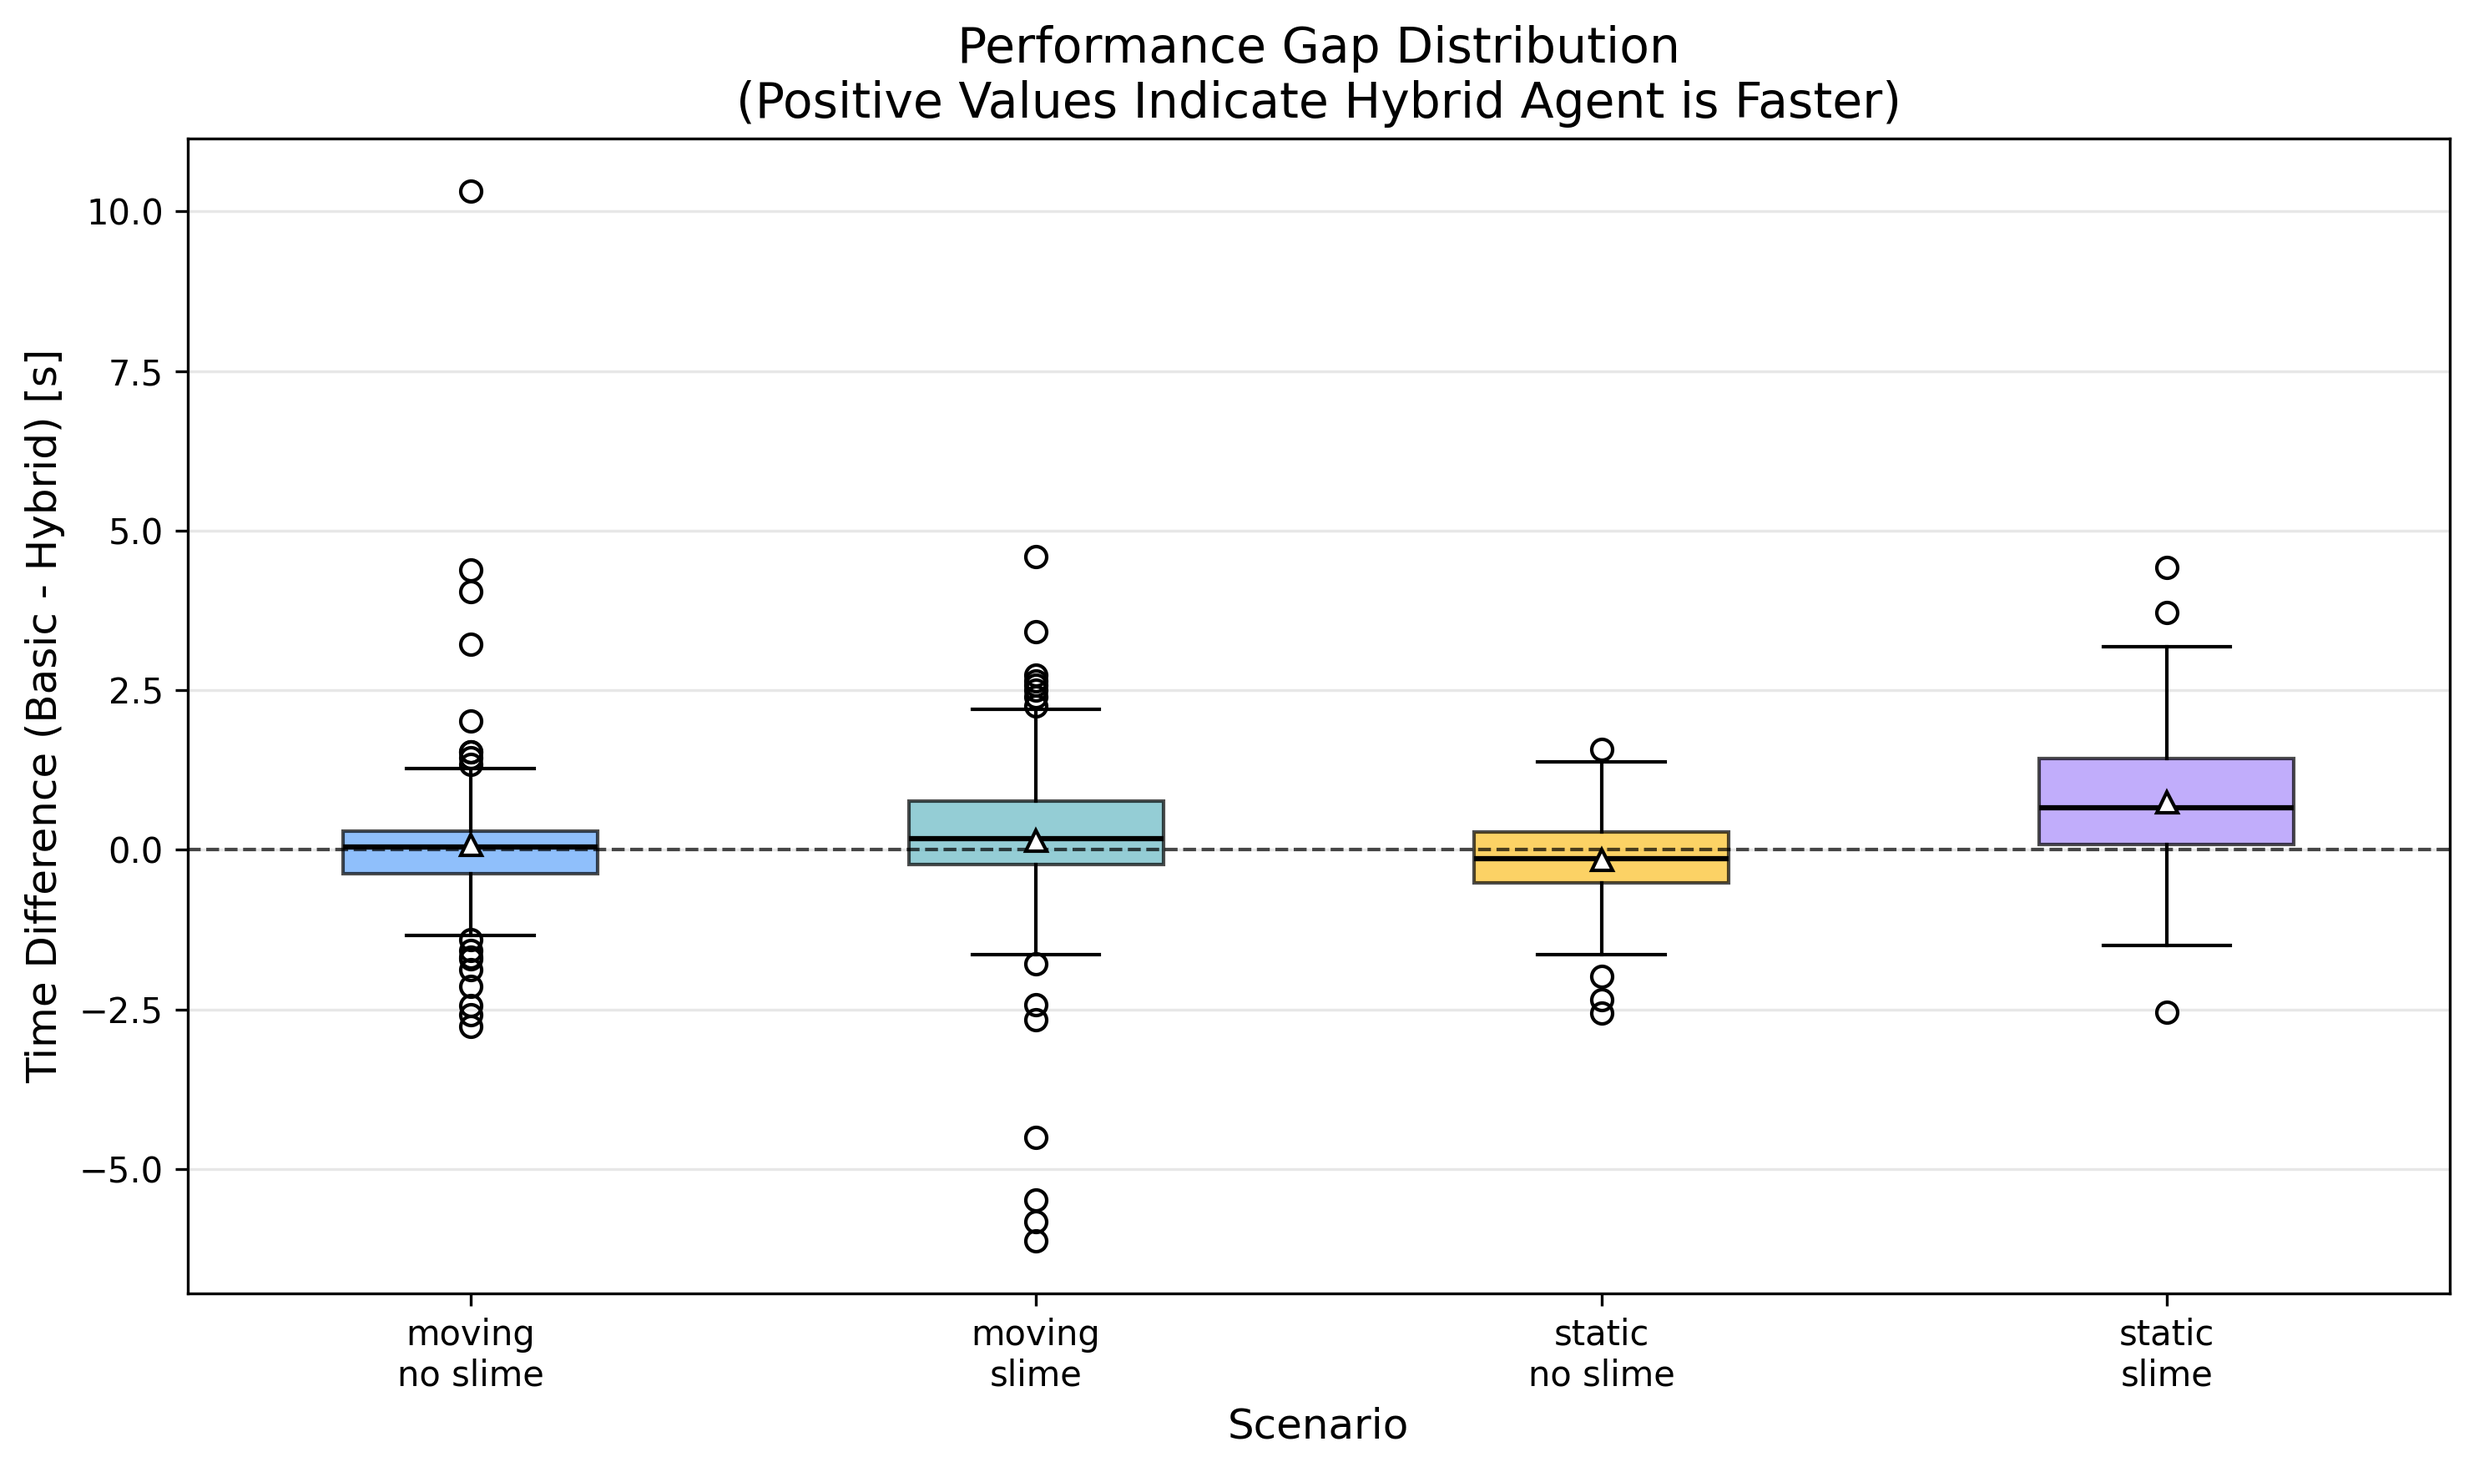
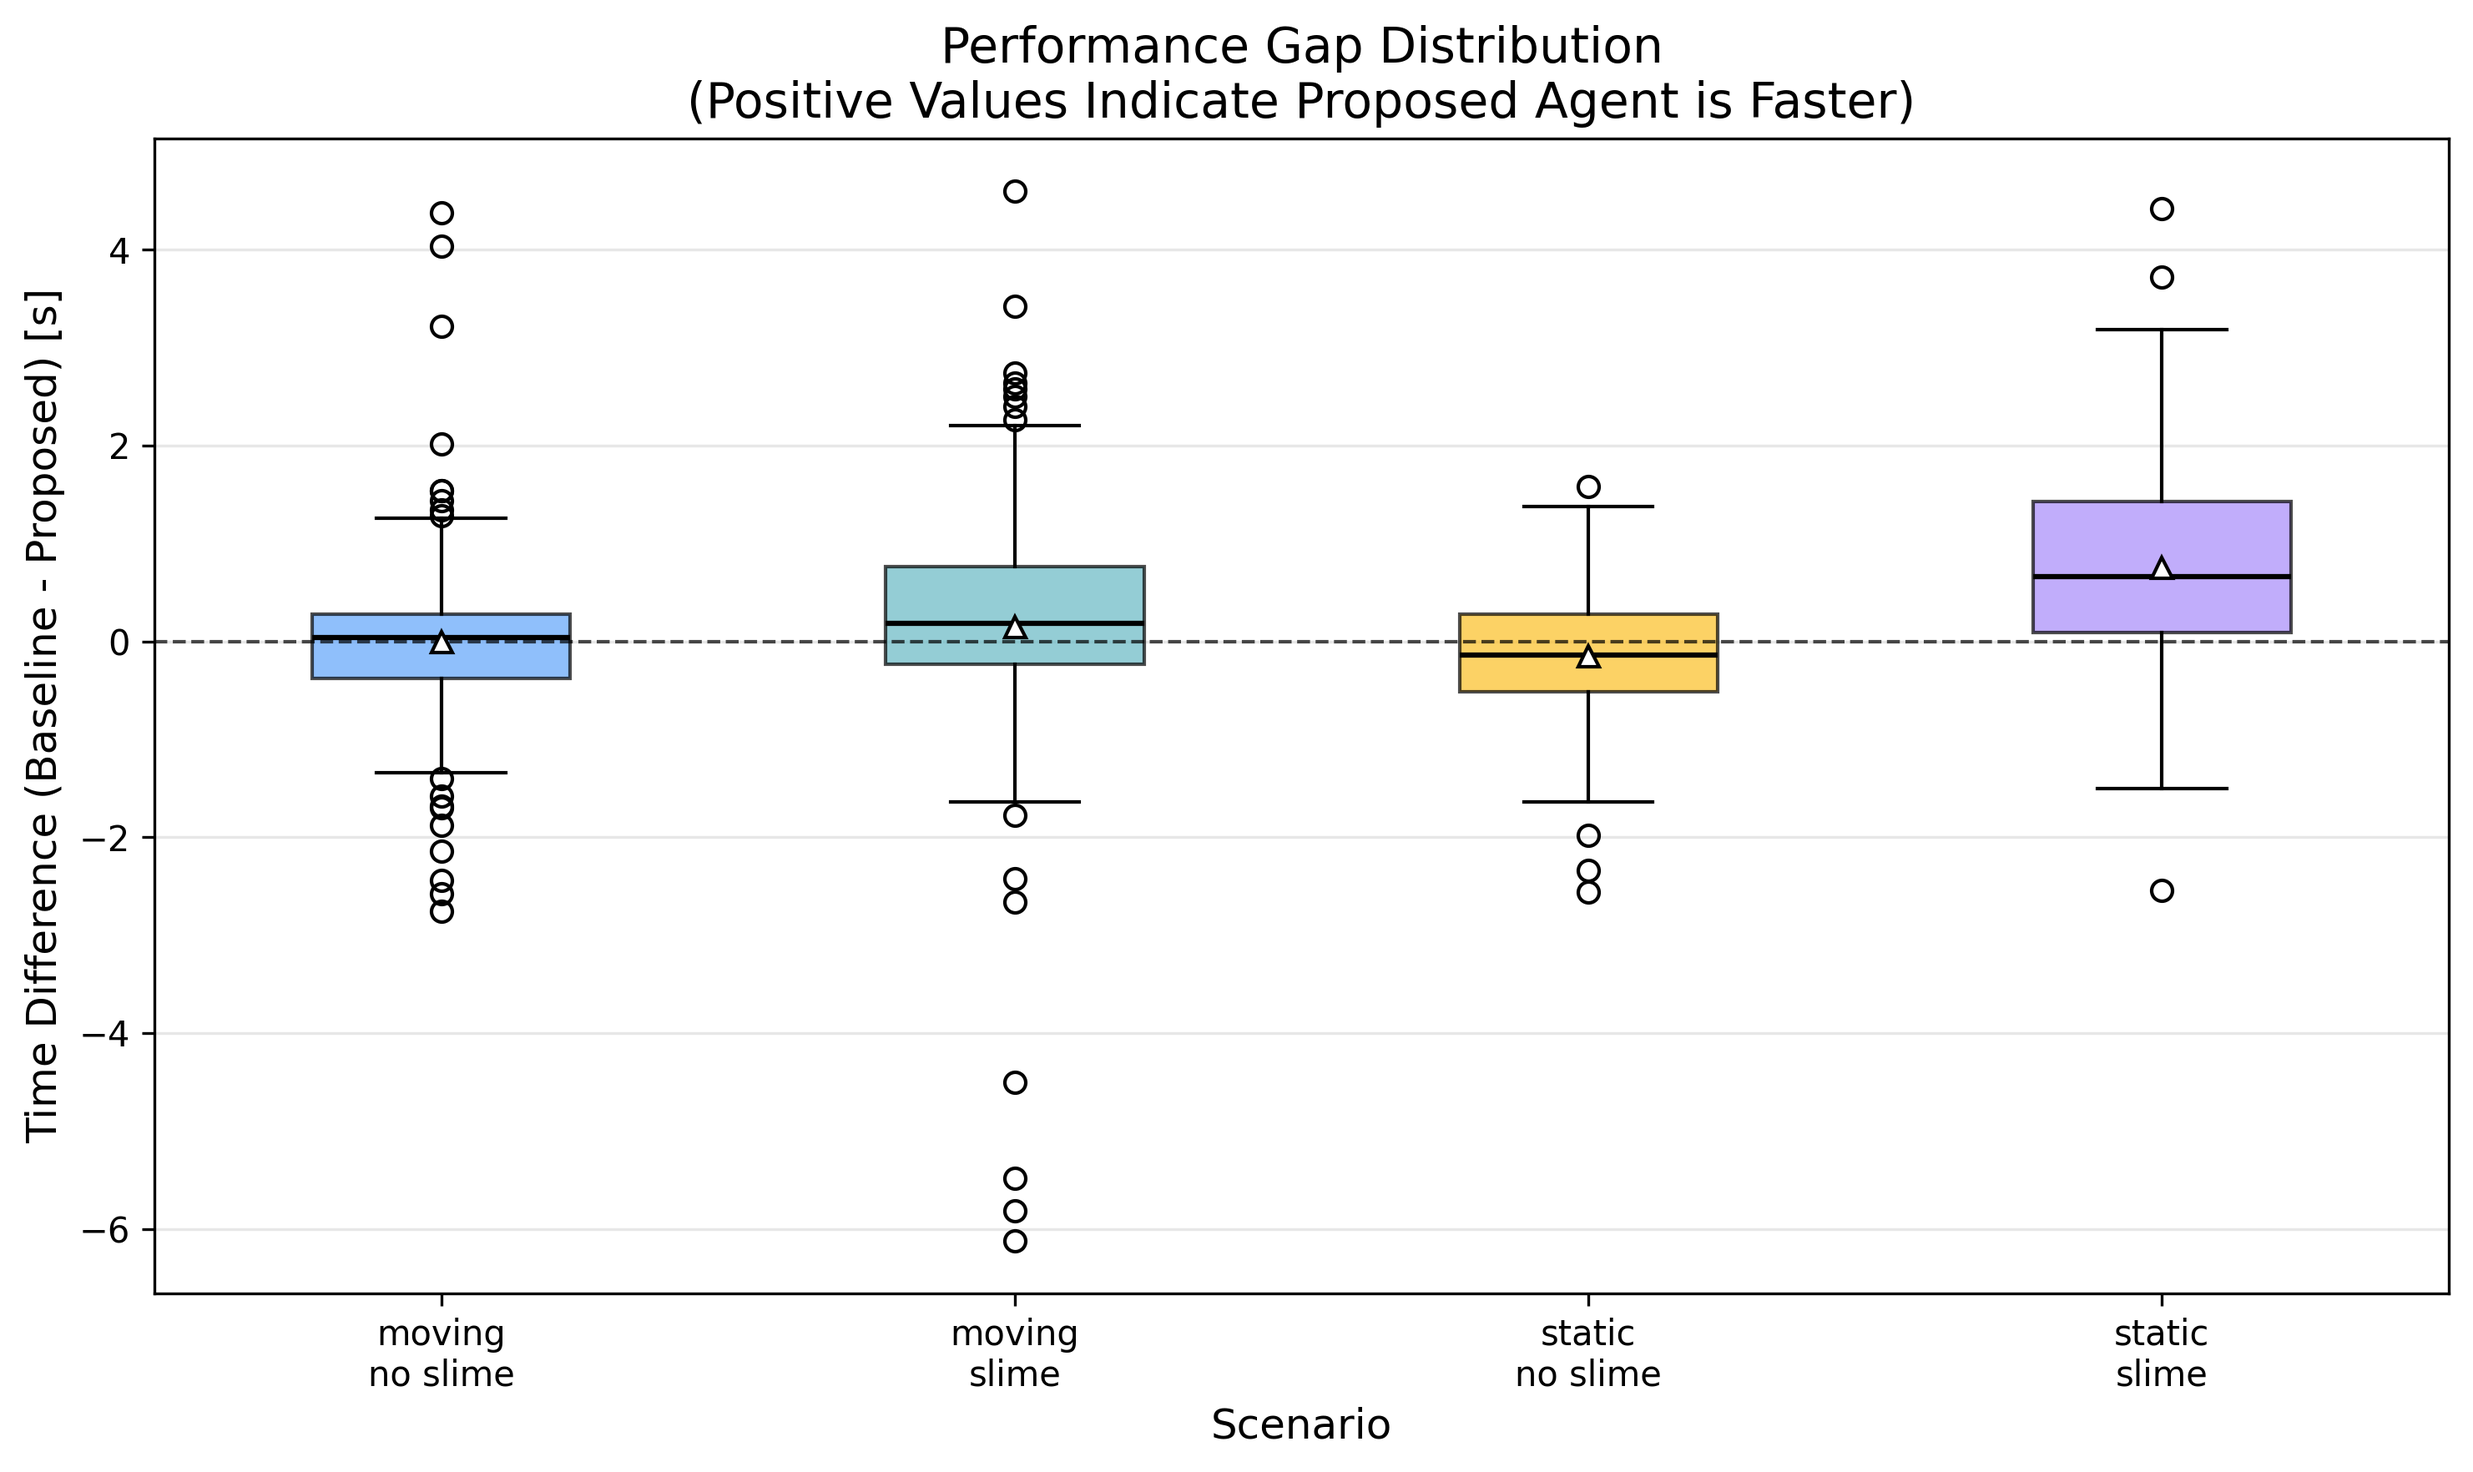
eval updates

diff --git a/eval/analysis.py b/eval/analysis.py
@@ -25,12 +25,12 @@ class ScenarioResult:
     mean_delta: float
     std_delta: float
     median_delta: float
-    hybrid_wins: int
+    proposed_wins: int
     ties: int
-    basic_wins: int
-    hybrid_win_rate: float
+    baseline_wins: int
+    proposed_win_rate: float
     tie_rate: float
-    basic_win_rate: float
+    baseline_win_rate: float
 
 
 def load_scenario_data(processed_dir: Path) -> dict[str, pd.DataFrame]:
@@ -38,16 +38,16 @@ def load_scenario_data(processed_dir: Path) -> dict[str, pd.DataFrame]:
     for csv_file in processed_dir.glob("*.csv"):
         scenario_name = csv_file.stem
         df = pd.read_csv(csv_file)
-        df['delta'] = df['basic_agent_time'] - df['hybrid_agent_time']
+        df['delta'] = df['baseline_agent_time'] - df['proposed_agent_time']
         scenarios[scenario_name] = df
     return scenarios
 
 
-def classify_winner(delta: float, epsilon: float = EPSILON) -> Literal['hybrid', 'tie', 'basic']:
+def classify_winner(delta: float, epsilon: float = EPSILON) -> Literal['proposed', 'tie', 'baseline']:
     if delta > epsilon:
-        return 'hybrid'
+        return 'proposed'
     elif delta < -epsilon:
-        return 'basic'
+        return 'baseline'
     else:
         return 'tie'
 
@@ -74,9 +74,9 @@ def analyze_scenario(name: str, df: pd.DataFrame, alpha: float = 0.05) -> Scenar
     median_delta = np.median(deltas)
     
     df['classification'] = df['delta'].apply(classify_winner)
-    hybrid_wins = (df['classification'] == 'hybrid').sum()
+    proposed_wins = (df['classification'] == 'proposed').sum()
     ties = (df['classification'] == 'tie').sum()
-    basic_wins = (df['classification'] == 'basic').sum()
+    baseline_wins = (df['classification'] == 'baseline').sum()
     
     return ScenarioResult(
         scenario=name,
@@ -91,12 +91,12 @@ def analyze_scenario(name: str, df: pd.DataFrame, alpha: float = 0.05) -> Scenar
         mean_delta=mean_delta,
         std_delta=std_delta,
         median_delta=median_delta,
-        hybrid_wins=hybrid_wins,
+        proposed_wins=proposed_wins,
         ties=ties,
-        basic_wins=basic_wins,
-        hybrid_win_rate=hybrid_wins / n * 100,
+        baseline_wins=baseline_wins,
+        proposed_win_rate=proposed_wins / n * 100,
         tie_rate=ties / n * 100,
-        basic_win_rate=basic_wins / n * 100,
+        baseline_win_rate=baseline_wins / n * 100,
     )
 
 
@@ -124,8 +124,8 @@ def create_box_plot(scenarios: dict[str, pd.DataFrame], output_path: Path):
     ax.axhline(y=0, color='black', linestyle='--', linewidth=1, alpha=0.7)
     
     ax.set_xlabel('Scenario', fontsize=12)
-    ax.set_ylabel('Time Difference (Basic - Hybrid) [s]', fontsize=12)
-    ax.set_title('Performance Gap Distribution\n(Positive Values Indicate Hybrid Agent is Faster)', fontsize=14)
+    ax.set_ylabel('Time Difference (Baseline - Proposed) [s]', fontsize=12)
+    ax.set_title('Performance Gap Distribution\n(Positive Values Indicate Proposed Agent is Faster)', fontsize=14)
     ax.grid(axis='y', alpha=0.3)
     
     plt.tight_layout()
@@ -138,17 +138,17 @@ def create_stacked_bar_chart(results: list[ScenarioResult], output_path: Path):
     fig, ax = plt.subplots(figsize=(10, 6))
     
     scenarios = [r.scenario.replace('_', '\n') for r in results]
-    hybrid_wins = [r.hybrid_win_rate for r in results]
+    proposed_wins = [r.proposed_win_rate for r in results]
     ties = [r.tie_rate for r in results]
-    basic_wins = [r.basic_win_rate for r in results]
+    baseline_wins = [r.baseline_win_rate for r in results]
     
     x = np.arange(len(scenarios))
     width = 0.6
     
-    ax.bar(x, hybrid_wins, width, label='Hybrid Win', color='#60A5FA')
-    ax.bar(x, ties, width, bottom=hybrid_wins, label='Tie', color='#FBBF24')
-    ax.bar(x, basic_wins, width, bottom=np.array(hybrid_wins) + np.array(ties), 
-           label='Basic Win', color='#67B8C4')
+    ax.bar(x, proposed_wins, width, label='Proposed', color='#60A5FA')
+    ax.bar(x, ties, width, bottom=proposed_wins, label='Tie', color='#FBBF24')
+    ax.bar(x, baseline_wins, width, bottom=np.array(proposed_wins) + np.array(ties), 
+           label='Baseline', color='#F87171')
     
     ax.set_xlabel('Scenario', fontsize=12)
     ax.set_ylabel('Percentage (%)', fontsize=12)
@@ -160,12 +160,15 @@ def create_stacked_bar_chart(results: list[ScenarioResult], output_path: Path):
     ax.grid(axis='y', alpha=0.3)
     
     for i, r in enumerate(results):
-        if r.hybrid_win_rate > 5:
-            ax.text(i, r.hybrid_win_rate / 2, f'{r.hybrid_win_rate:.1f}%', 
+        if r.proposed_win_rate > 5:
+            ax.text(i, r.proposed_win_rate / 2, f'{r.proposed_win_rate:.1f}%', 
                     ha='center', va='center', fontsize=10, fontweight='bold')
-        if r.basic_win_rate > 5:
-            ax.text(i, r.hybrid_win_rate + r.tie_rate + r.basic_win_rate / 2, 
-                    f'{r.basic_win_rate:.1f}%', 
+        if r.tie_rate > 0:
+            ax.text(i, r.proposed_win_rate + r.tie_rate / 2, f'{r.tie_rate:.1f}%', 
+                    ha='center', va='center', fontsize=9, fontweight='bold')
+        if r.baseline_win_rate > 5:
+            ax.text(i, r.proposed_win_rate + r.tie_rate + r.baseline_win_rate / 2, 
+                    f'{r.baseline_win_rate:.1f}%', 
                     ha='center', va='center', fontsize=10, fontweight='bold')
     
     plt.tight_layout()
@@ -218,7 +221,7 @@ def main():
         sig = "✓" if result.is_significant else "✗"
         print(f"    - Normality: p={result.shapiro_p:.4f} ({'Normal' if result.is_normal else 'Non-Normal'})")
         print(f"    - {result.test_used}: p={result.test_p:.4f} {sig}")
-        print(f"    - Win Rate: Hybrid {result.hybrid_win_rate:.1f}% | Tie {result.tie_rate:.1f}% | Basic {result.basic_win_rate:.1f}%")
+        print(f"    - Win Rate: Proposed {result.proposed_win_rate:.1f}% | Tie {result.tie_rate:.1f}% | Baseline {result.baseline_win_rate:.1f}%")
     print()
     
     print("Generating outputs...")

diff --git a/eval/preprocess.py b/eval/preprocess.py
@@ -9,8 +9,8 @@ class MapResult:
     map_id: int
     map_seed: int
     timestamp: str
-    basic_agent_time: float
-    hybrid_agent_time: float
+    baseline_agent_time: float
+    proposed_agent_time: float
     time_diff: float
     winner: str
 
@@ -55,8 +55,8 @@ def parse_log_file(log_path: Path) -> list[MapResult]:
                 original_map_id = int(complete_match.group(1))
                 winner = complete_match.group(2)
                 time_diff = float(complete_match.group(3))
-                hybrid_time = float(complete_match.group(4))
-                basic_time = float(complete_match.group(5))
+                proposed_time = float(complete_match.group(4))
+                baseline_time = float(complete_match.group(5))
                 
                 if original_map_id in map_starts:
                     timestamp, seed, actual_id = map_starts[original_map_id]
@@ -65,8 +65,8 @@ def parse_log_file(log_path: Path) -> list[MapResult]:
                         map_id=actual_id,
                         map_seed=seed,
                         timestamp=timestamp,
-                        basic_agent_time=basic_time,
-                        hybrid_agent_time=hybrid_time,
+                        baseline_agent_time=baseline_time,
+                        proposed_agent_time=proposed_time,
                         time_diff=time_diff,
                         winner=winner,
                     ))
@@ -82,8 +82,8 @@ def write_results_to_csv(results: list[MapResult], output_path: Path) -> None:
             'map_id',
             'map_seed', 
             'timestamp',
-            'basic_agent_time',
-            'hybrid_agent_time',
+            'baseline_agent_time',
+            'proposed_agent_time',
             'time_diff',
             'winner'
         ])
@@ -93,8 +93,8 @@ def write_results_to_csv(results: list[MapResult], output_path: Path) -> None:
                 result.map_id,
                 result.map_seed,
                 result.timestamp,
-                result.basic_agent_time,
-                result.hybrid_agent_time,
+                result.baseline_agent_time,
+                result.proposed_agent_time,
                 result.time_diff,
                 result.winner,
             ])
